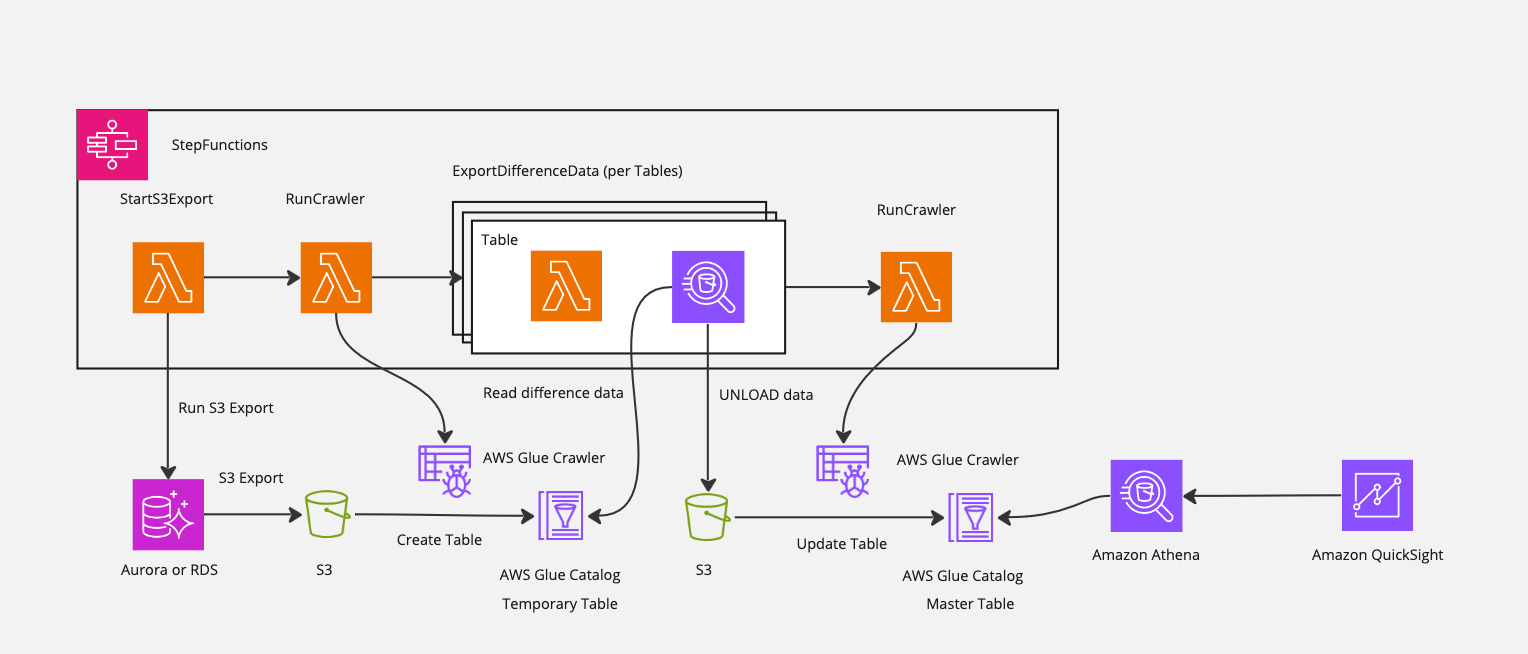
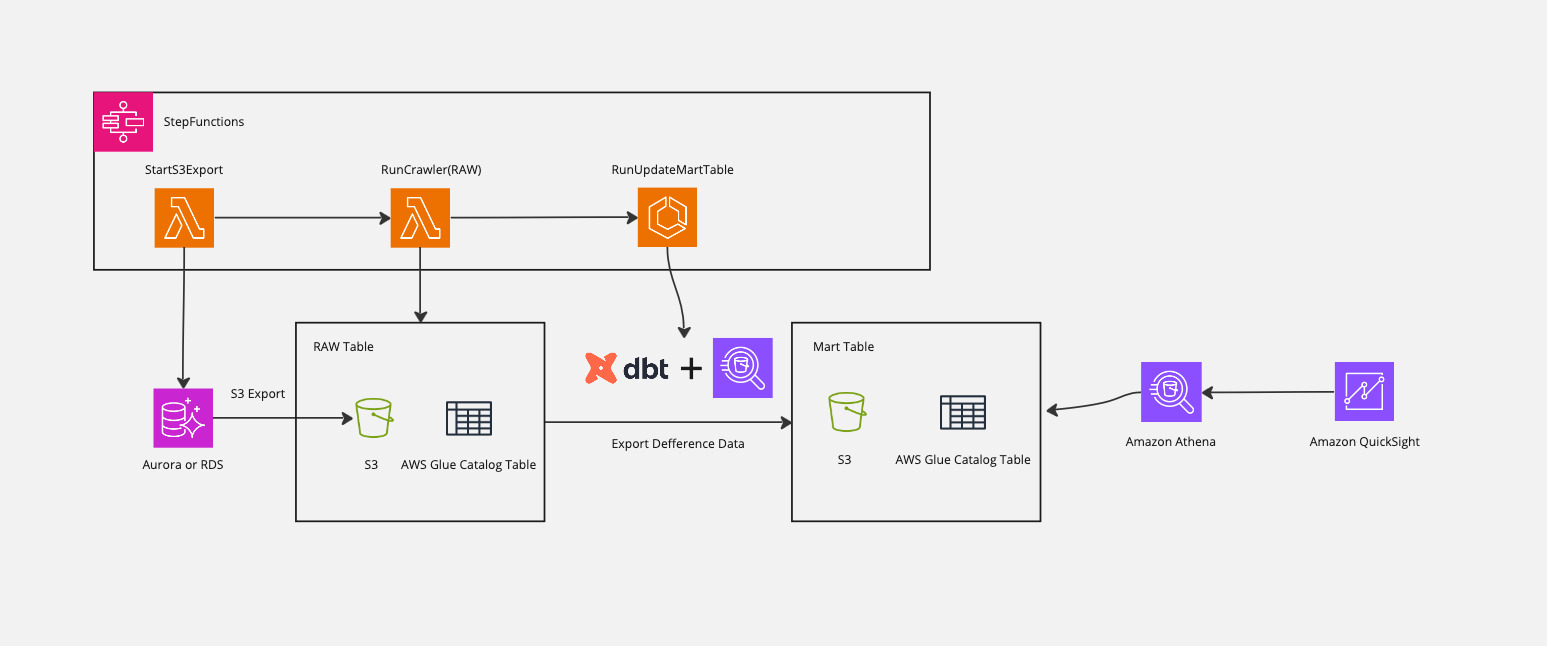
update doc

diff --git a/aurora-athena-sample/README.md b/aurora-athena-sample/README.md
@@ -11,9 +11,9 @@
    * S3 Exportの仕様上、Export対象は全データとなります
 2. Amazon Athenaでクエリを行えるようにAWS GlueのCrawlerを利用して、TemporaryTable を作成します。
    * このTemporary Tableはデータのロードごとに削除されます
-3. TableごとにTableのレコードのtimestamp情報を読み取り、差分更新分を検索し S3 にExportします
-4. AWS Glue Crawlerを利用して、差分データを MasterTable に更新します
-5. Athena および QuickSight で MasterTable にクエリをかけます
+3. dbtを利用して、modelの定義に沿ってMartテーブルを更新します
+   * サンプルでは、タイムスタンプ情報をよみとり差分データをInsertします
+4. Athena および QuickSight で MasterTable にクエリをかけます
 
 
 1日に10人が10回ほどフルスキャンでクエリし、QuickSight上でデータを分析するケースを想定します。  
@@ -49,9 +49,9 @@ This sample describes how to build a pipeline for querying data from RDS on Athe
 1. Export the data from Amazon Aurora to S3 using S3 Export.
    * Determined by S3 Export specificationm, the all data is exported. 
 2. Create a temporary table through the AWS Glue crawler for querying on Amazon Athena.
-3. Read the timestamp from the table records and export the difference data to S3.
-4. Update the master table using the AWS Glue crawler.
-5. Query the master table on Amazon Athena or Amazon QuickSight.
+3. Transport data with dbt
+   * In this sample, read the timestamp from the table records and export the difference data to S3.
+4. Query the master table on Amazon Athena or Amazon QuickSight.
 
 
 ## Pricing example
